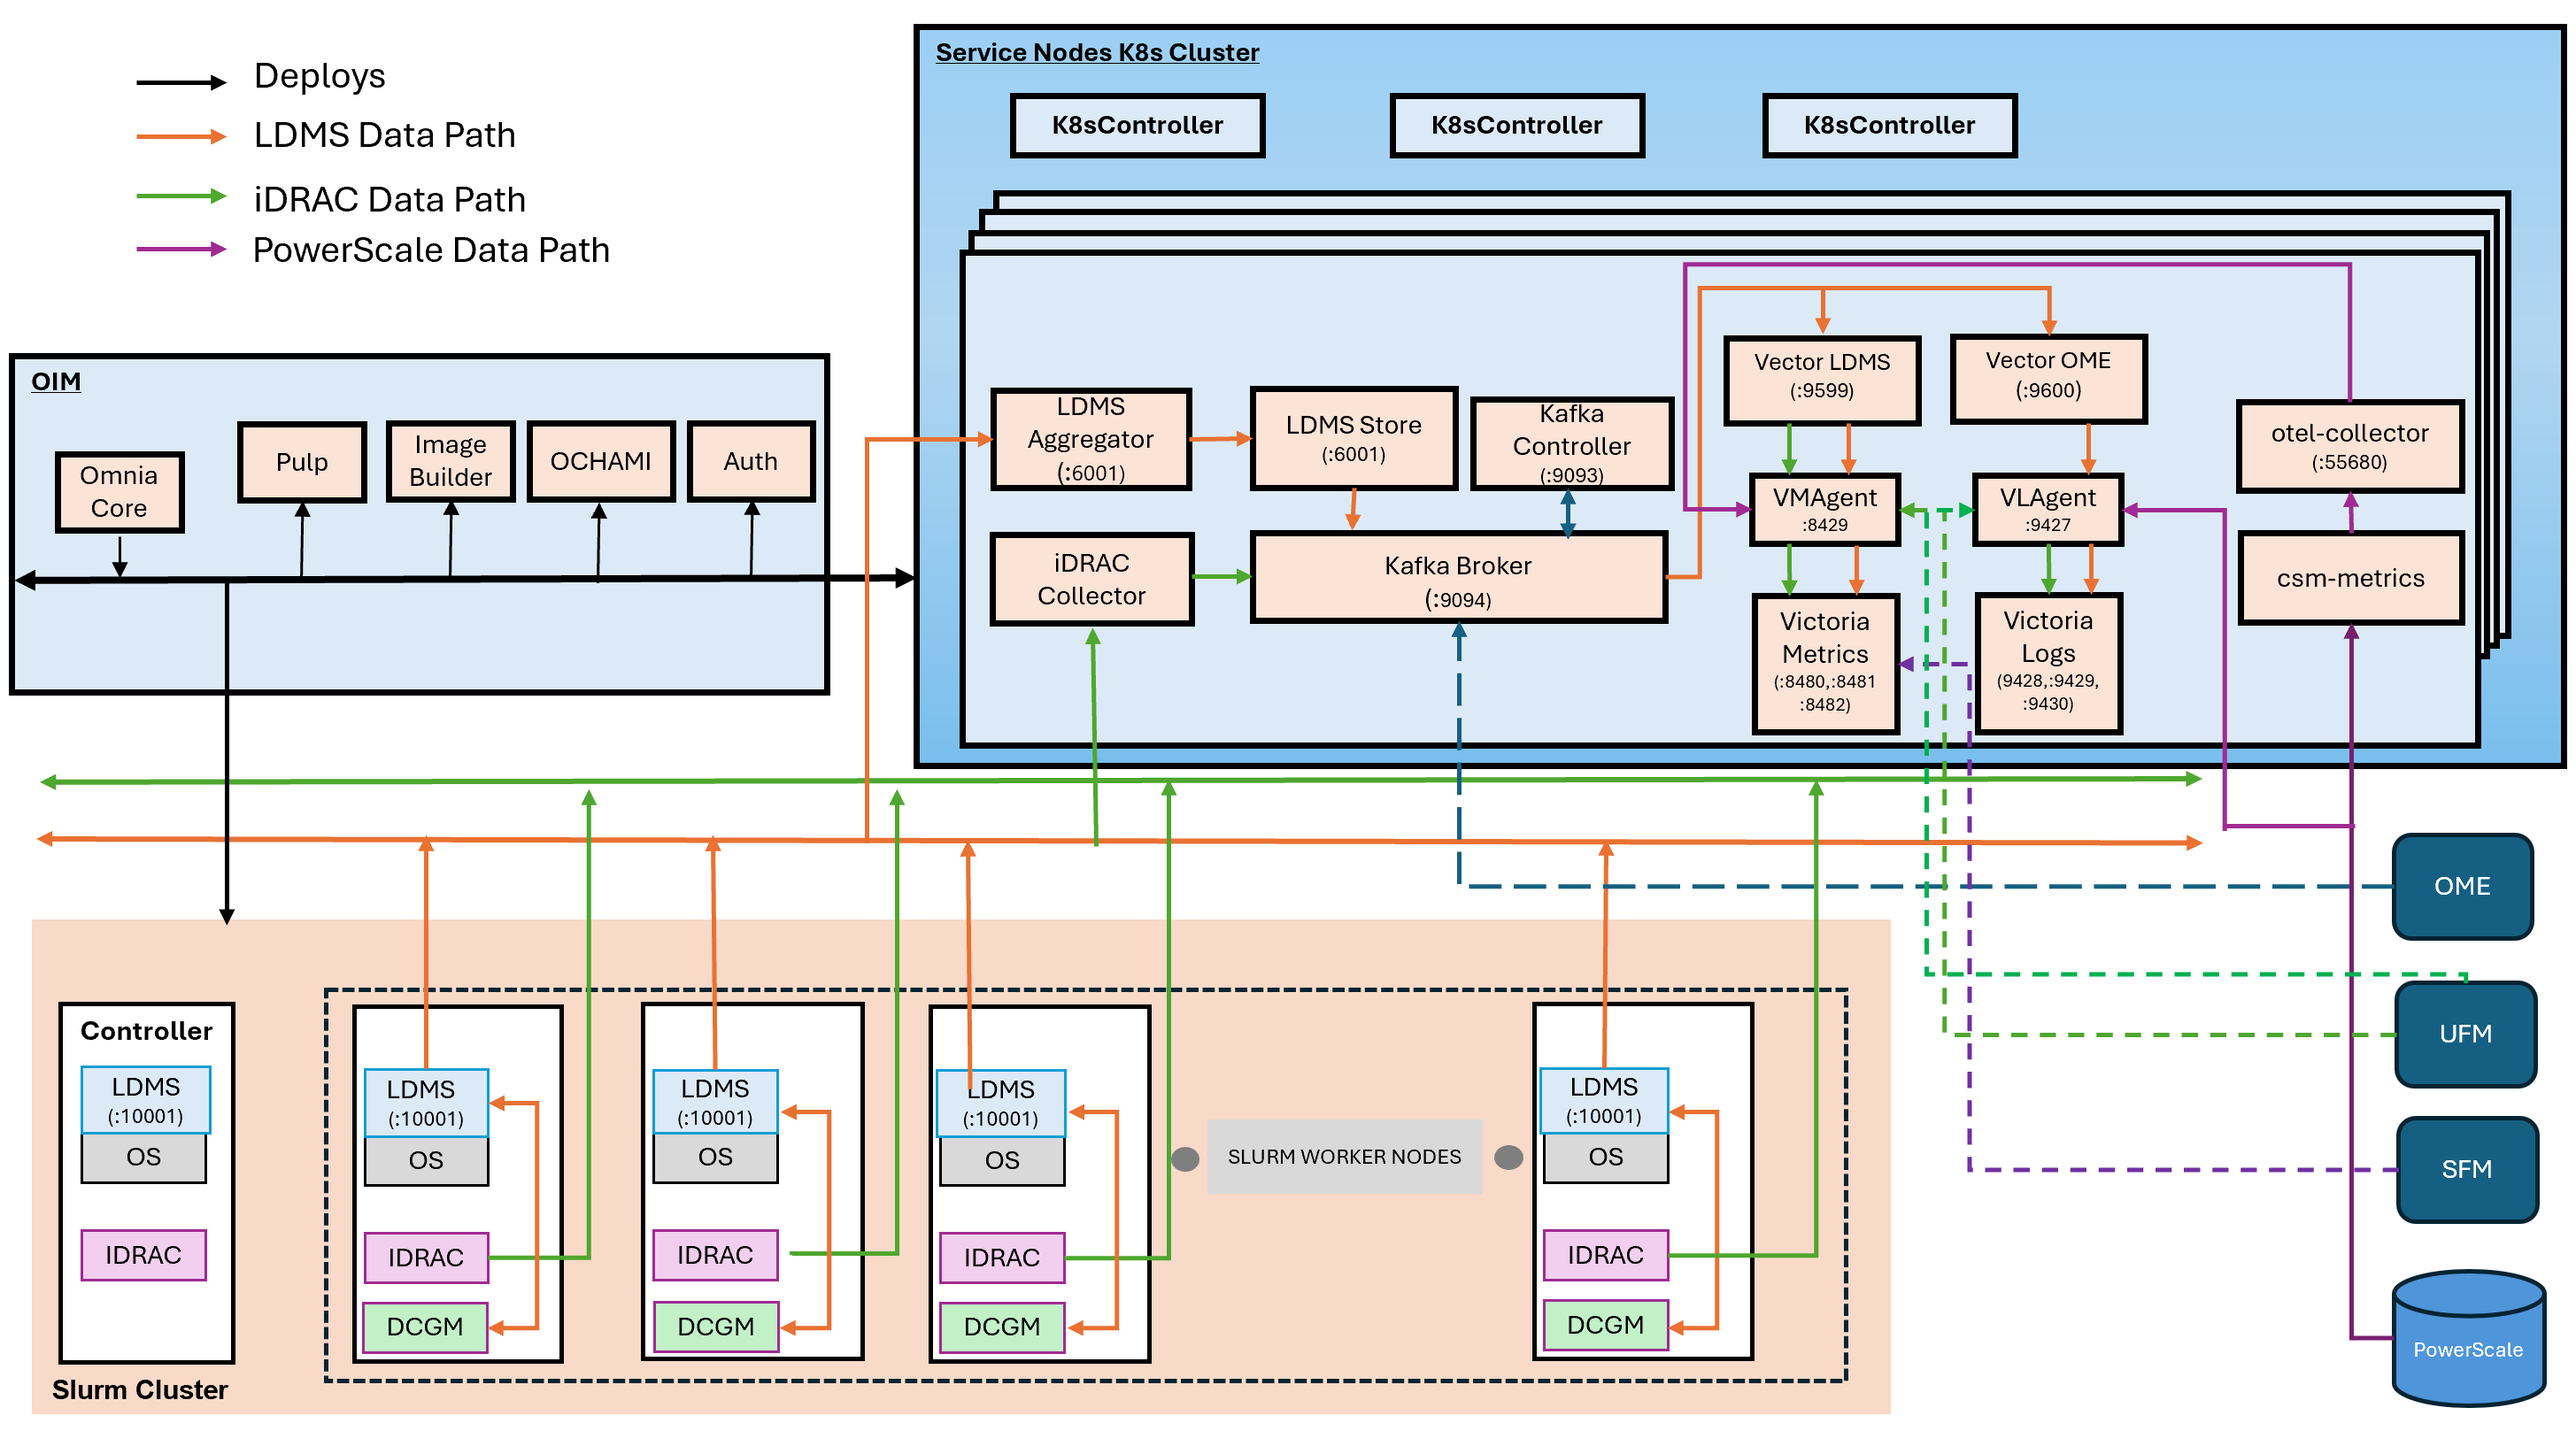
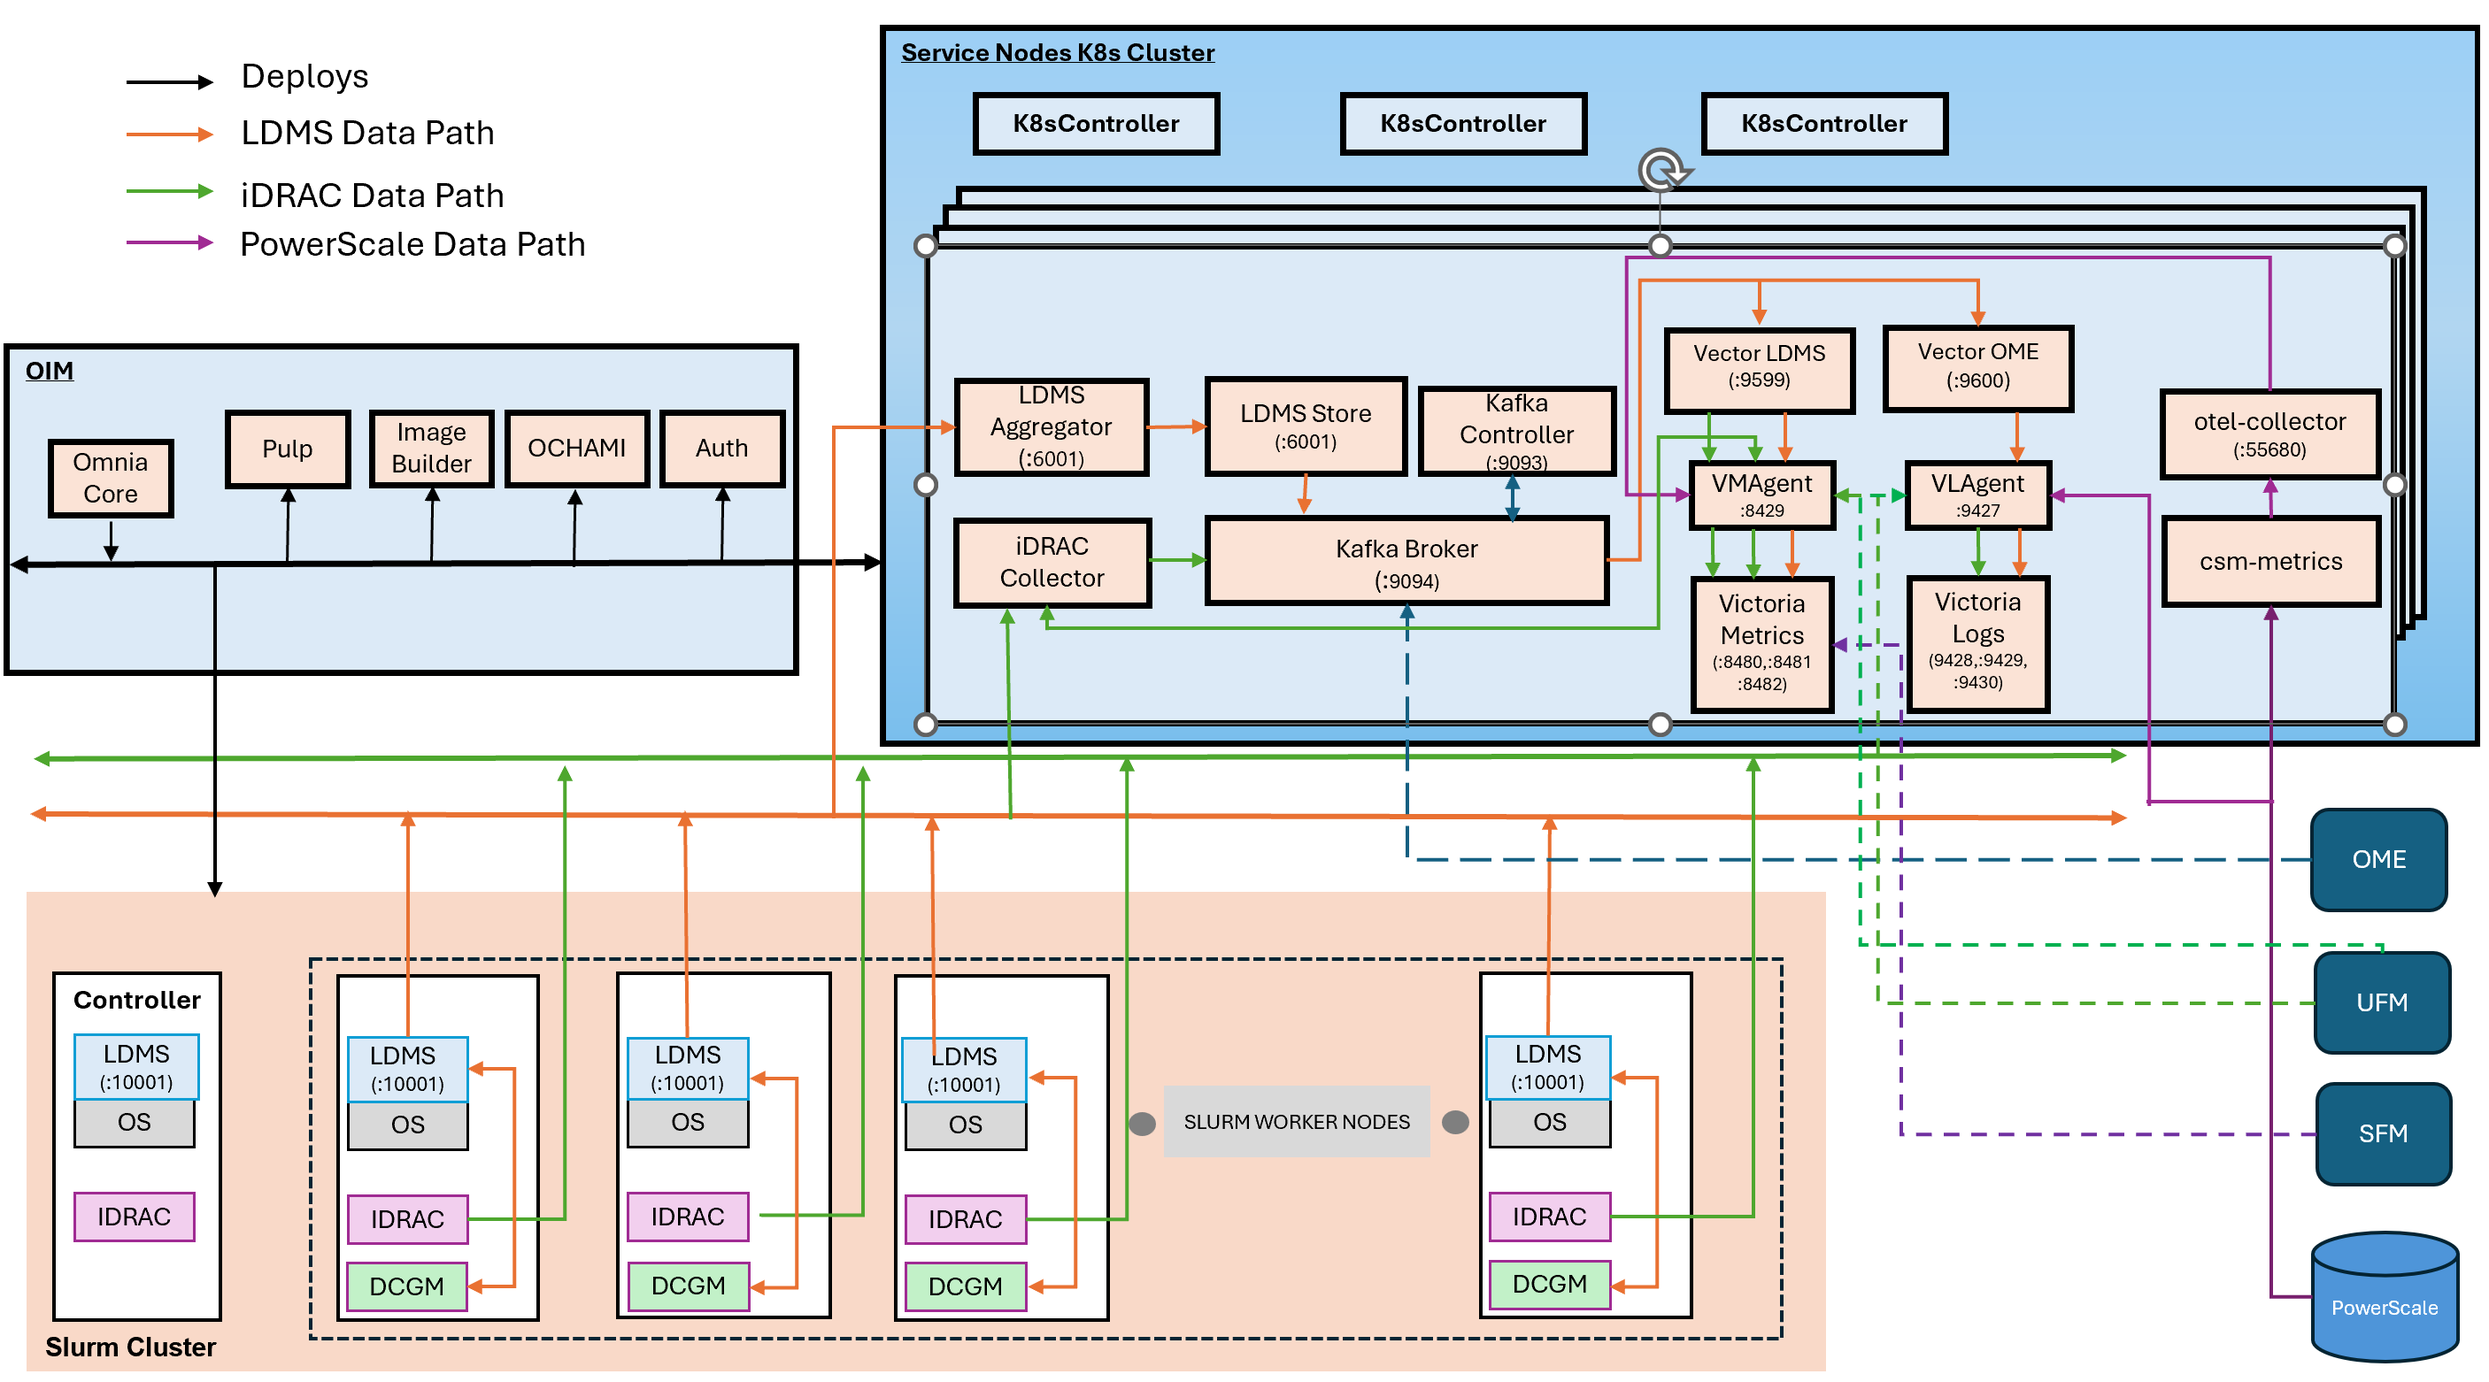
Updated Pulp troubleshooting section and telemetry architecture image

Changed region(s): [[0.0, 0.0, 1.0, 1.0], [0.0619, 0.0307, 0.2475, 0.1844], [0.8972, 0.8912, 0.99, 0.9834]]

diff --git a/docs/source/troubleshootingguide.rst b/docs/source/troubleshootingguide.rst
@@ -198,24 +198,14 @@ Pulp container resource saturation.
 
 Allow the system to idle ~1 hour before re-running.
 
-3.3 Pulp Sync/Publish "No space left on device"
------------------------------------------------
+3.3 Pulp Reset Password Failed
+--------------------------------
 
-**Cause**
+**Possible Causes for Pulp Reset Password Failed:**
 
-NFS mount full.
-
-**Resolution**
-
-Increase NFS size
-Set concurrency to 1:
-
-.. code-block:: bash
-
-   PULP_SYNC_CONCURRENCY = 1
-   PULP_PUBLISH_CONCURRENCY = 1
-
-Re-run playbook
+* **NFS Storage Export Configuration (PowerScale)**: Enable the ``nfsv4-no-names``, ``nfsv4-no-domain``, ``nfsv4-no-domain-uids``, and ``nfsv4-allow-numeric-ids`` settings. Ensure consistent UID and GID mappings between the NFS server and client.
+* **Access Permissions**: Add the ``no_root_squash`` option to the NFS export configuration in ``/etc/exports``.
+* **Network Reachability**: Verify NFS server connectivity and ensure firewall ports 2049, 111, and 20048 are open.
 
 3.4 EPEL Repository Instability
 -------------------------------
